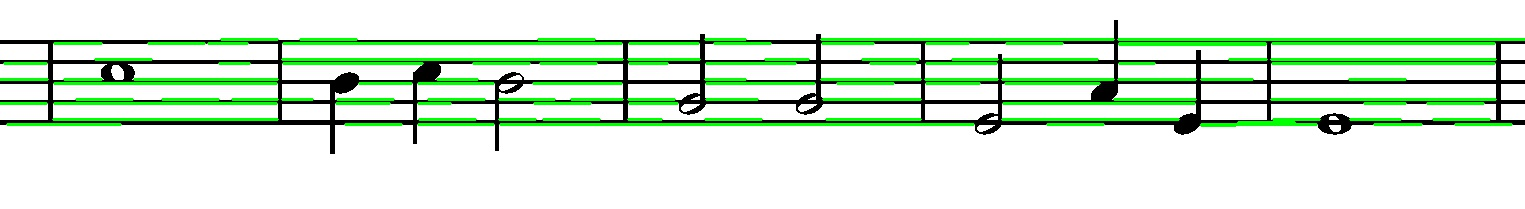
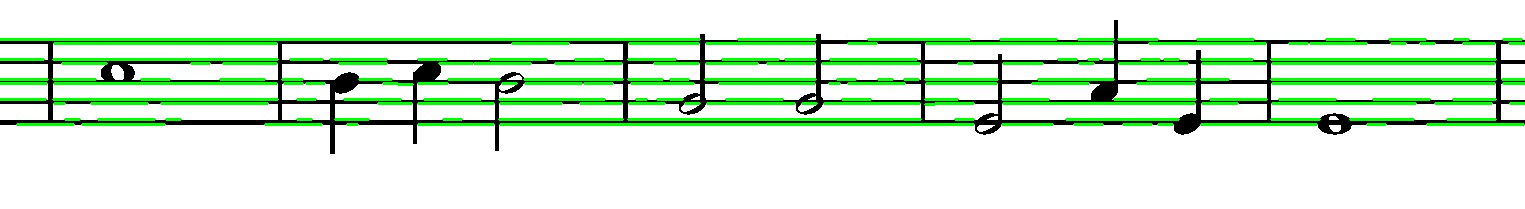
Add checks for notes

diff --git a/note-play.py b/note-play.py
@@ -1,12 +1,13 @@
 
 # coding: utf-8
 
-# In[122]:
+# In[222]:
 
 __author__ = 'Nikola Djuza RA6-2012'
 
 get_ipython().magic(u'matplotlib inline')
 import numpy as np
+import collections
 import sys
 import cv2
 import scipy as sc
@@ -18,10 +19,7 @@ from sklearn.cluster import KMeans
 from midiutil.MidiFile import MIDIFile
 
 
-# In[123]:
-
-def load_image(path):
-    return cv2.cvtColor(cv2.imread(path), cv2.COLOR_BGR2RGB)
+# In[223]:
 
 def display_image(image, color = False):
     if color:
@@ -30,16 +28,15 @@ def display_image(image, color = False):
         plt.imshow(image, 'gray')
 
 def load_and_prepare_image(image_path):
-    image = load_image(image_path)
-    
+    image = cv2.imread(image_path)
     ret, image_bin = cv2.threshold(image, 200, 255, cv2.THRESH_BINARY)
 
     return image_bin
 
 
-# In[124]:
+# In[224]:
 
-def createFiveline(image):
+def create_fiveline(image):
     edges = cv2.Canny(image, 50, 150, apertureSize=3)
 
     ys = list()
@@ -47,13 +44,11 @@ def createFiveline(image):
     maxLineGap = 30
 
     lines = cv2.HoughLinesP(edges, 1, np.pi / 180, 70, minLineLength, maxLineGap)
-        
-
     
     for line in lines:
         for x1, y1, x2, y2 in line:
+            cv2.line(image, (x1,y1), (x2,y2), (0, 255, 0), 2)
             if (abs(y1 - y2 < 4)):
-                cv2.line(image, (x1,y1), (x2,y2), (0, 255, 0), 2)
                 innerlist = list()
                 innerlist.append((y1 + y2) / 2)
                 ys.append(innerlist)
@@ -69,19 +64,37 @@ def createFiveline(image):
         fiveline.append(innerlist[0])
 
     fiveline.sort()
-    return img
+    print fiveline
+    return fiveline
 
 
-# In[125]:
+# In[225]:
+
+def create_checks(fiveline):
+    checks = list()
+    dist = abs(fiveline[1] - fiveline[0])
+    
+    for line in fiveline:
+        checks.append(int(line - (dist / 4)))
+        checks.append(int(line + (dist / 4)))
+
+    checks.sort()
+    checks.reverse()
+    return checks
+
+
+# In[226]:
 
 img = load_and_prepare_image('images/test.png')
-img = cv2.imread('images/test.png');
-plt.imshow(img, 'gray')
 
-# fiveline = createFiveline(img)
+height, width = img.shape[:2]
+
+fiveline = create_fiveline(img)
+
+checks = create_checks(fiveline)
 
 
 # In[ ]:
 
-
+get_ipython().system(u'ipython nbconvert --to script note-play.ipynb')
 
